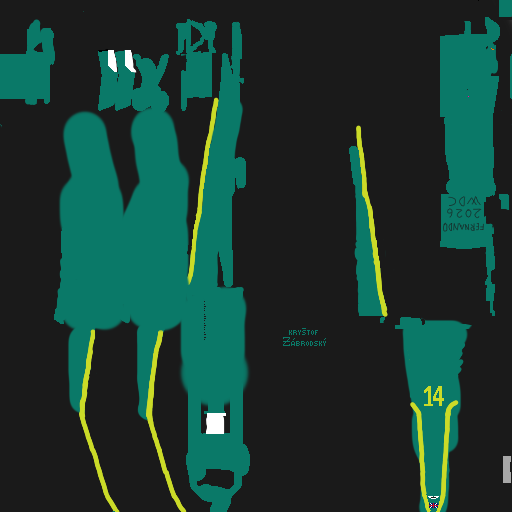
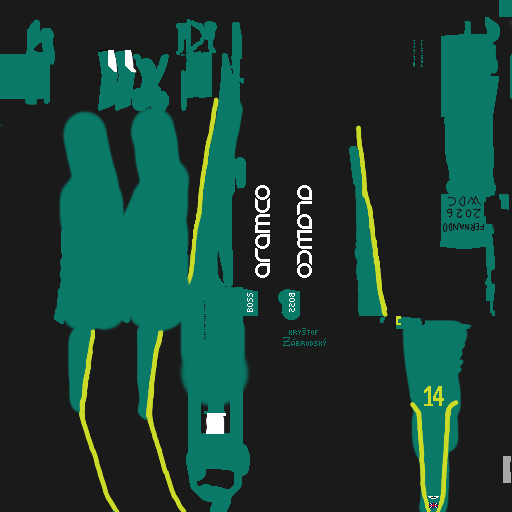
Upraven serzant Chawo, pridany skiny a pridan shell.html

diff --git a/build/shell.html b/build/shell.html
@@ -1,0 +1,291 @@
+<!doctype html>
+<html lang="en">
+    <head>
+        <meta charset="utf-8" />
+        <meta
+            name="viewport"
+            content="width=device-width, user-scalable=no, initial-scale=1.0"
+        />
+        <title>$GODOT_PROJECT_NAME</title>
+        <style>
+            html,
+            body,
+            #canvas {
+                margin: 0;
+                padding: 0;
+                border: 0;
+            }
+            body {
+                color: white;
+                background-color: black;
+                overflow: hidden;
+                touch-action: none;
+            }
+            #canvas {
+                display: block;
+            }
+            #canvas:focus {
+                outline: none;
+            }
+            #status {
+                position: absolute;
+                left: 0;
+                right: 0;
+                top: 0;
+                bottom: 0;
+            }
+            #status {
+                background-color: #505050;
+                display: flex;
+                flex-direction: column;
+                justify-content: center;
+                align-items: center;
+                visibility: hidden;
+            }
+            #status-notice {
+                display: none;
+            }
+            #status-progress {
+                display: none;
+                width: 100%;
+            }
+            #status-notice {
+                background-color: #5b3943;
+                border-radius: 0.5rem;
+                border: 1px solid #9b3943;
+                color: #e0e0e0;
+                font-family: "Noto Sans", "Droid Sans", Arial, sans-serif;
+                line-height: 1.3;
+                margin: 0 2rem;
+                overflow: hidden;
+                padding: 1rem;
+                text-align: center;
+                z-index: 1;
+            }
+            #status-loading {
+                position: absolute;
+                display: flex;
+                flex-direction: column;
+                justify-content: center;
+                align-items: center;
+                bottom: 10%;
+                left: 50%;
+                width: 50%;
+                transform: translateX(-50%);
+            }
+            #status-text {
+                font-family: "Noto Sans", "Droid Sans", Arial, sans-serif;
+                font-size: 1.2rem;
+                font-weight: bold;
+                margin: 0 auto;
+            }
+            #dyk-container {
+                -webkit-user-select: none;
+                -moz-user-select: none;
+                -ms-user-select: none;
+                user-select: none;
+                font-family: "Noto Sans", "Droid Sans", Arial, sans-serif;
+                background-color: #707070;
+                border-radius: 0.5em;
+                border: 1px solid #ddd;
+                padding: 1em;
+                width: 30%;
+                height: 30%;
+                box-shadow: 0 0 30px black;
+                transition: box-shadow 100ms ease;
+                position: relative;
+            }
+            #dyk-next {
+                color: #cccccc;
+                font-size: 1.3rem;
+                font-weight: bold;
+                position: absolute;
+                right: 5px;
+                bottom: 0;
+            }
+        </style>
+        $GODOT_HEAD_INCLUDE
+    </head>
+    <body>
+        <canvas id="canvas">
+            Your browser does not support the canvas tag.
+        </canvas>
+
+        <noscript> Your browser does not support JavaScript. </noscript>
+
+        <div id="status">
+            <div id="status-loading">
+                <span id="status-text">Loading...</span>
+                <progress id="status-progress"></progress>
+            </div>
+            <div id="status-notice"></div>
+            <div
+                id="dyk-container"
+                onpointerdown="this.style.boxShadow = '0 0 10px black';"
+                onpointerup="dyk()"
+            >
+                <span id="dyk"></span>
+                <span id="dyk-next">Další ➤</span>
+            </div>
+        </div>
+
+        <script src="$GODOT_URL"></script>
+        <script>
+            const dyks = [
+                "Věděli jste, že Formule 1 je <b>nejrychlejší silniční závodní série</b> na světě?",
+                "Věděli jste, že první Grand Prix Formule 1 se konala v roce <b>1950 v Silverstone</b> ve Velké Británii?",
+                "Věděli jste, že nejúspěšnějšími jezdci jsou <b>Michael Schumacher a Lewis Hamilton</b>, oba se 7 mistrovskými tituly?",
+                "Věděli jste, že nejrychlejší okruh je <b>Monza v Itálii</b> s průměrnou rychlostí přes 260 km/h?",
+                "Věděli jste, že vozy F1 mohou zrychlit z <b>0 na 100 km/h za méně než 2,5 sekundy</b>?",
+                "Věděli jste, že jezdci mohou při brzdění zažívat přetížení až <b>5G</b>?",
+                "Věděli jste, že vozy mají speciální systémy pro ochranu jezdců, jako je <b>HANS a Halo</b>?",
+                "Věděli jste, že <b>Max Verstappen</b> debutoval v 17 letech a je nejmladším vítězem závodu v historii (18 let a 228 dní)?",
+                "Věděli jste, že vozy mají takový přítlak, že by mohly teoreticky <b>jezdit po stropě tunelu</b>?",
+                "Věděli jste, že piloti průměrně řadí <b>50x za jedno kolo</b>, což je kolem 3 000 změn za závod?",
+                "Věděli jste, že vozy jsou navrženy tak, aby vydržely nárazy o síle až <b>80G</b>?",
+                "Věděli jste, že poslední jezdec, který přišel ve Formuli 1 o život je Jules Bianchi a na jeho počest je navždy <b>zakázáno vybrat si startovní číslo 17</b>?",
+                "Věděli jste, že v kalendáři zůstávají 4 tratě z původní sezóny 1950: <b>Silverstone, Monako, Spa a Monza</b>?",
+                "Věděli jste, že v roce 1955 <b>Alberto Ascari</b> v Monaku vyletěl s vozem až do mořského přístavu?",
+                "Věděli jste, že světový rekord v nejrychlejším pit stopu drží <b>McLaren s časem 1,80 sekundy</b>?",
+                "Věděli jste, že <b>Lewis Hamilton</b> drží rekord pro nejvíce pole position a byl prvním černošským mistrem světa?",
+                "Věděli jste, že vozy Formule 1 používají <b>hybridní motory</b> již od roku 2014?",
+                "Věděli jste, že maximální rychlost vozů F1 může přesáhnout hranici <b>370 km/h</b>?",
+                "Věděli jste, že v sezóně 2026 je v kalendáři naplánováno <b>23 závodů</b> po celém světě?",
+                "Věděli jste, že výhradním dodavatelem pneumatik je <b>Pirelli</b> a ty jsou vyvíjeny speciálně pro každý závod?",
+                "Věděli jste, že <b>hmotnost vozu</b> je striktně kontrolována a musí být splněna i s jezdcem po dojetí závodu?",
+                "Věděli jste, že nejdelší závod v historii F1 trval <b>přes 4 hodiny</b>?",
+                "Věděli jste, že Formule 1 je jednou z <b>nejdražších a technologicky nejpokročilejších</b> sportovních sérií?",
+                "Věděli jste, že <b>Max Verstappen</b> získal svůj první titul v roce 2021 a k roku 2026 má na kontě přes 40 vítězství?",
+                "Věděli jste, že <b>Mercedes</b> naprosto dominoval hybridní éře v letech 2014 až 2020?",
+                "Věděli jste, že během závodu může teplota v kokpitu dosáhnout až <b>50 °C</b>?",
+                "Věděli jste, že jezdec může během jedné Grand Prix vypotit a ztratit až <b>4 kg tělesné váhy</b>?",
+                "Věděli jste, že brzdové kotouče se při intenzivním brzdění zahřívají na teplotu přes <b>1 000 °C</b>?",
+                "Věděli jste, že <b>volant vozu F1</b> stojí více než běžné osobní auto a obsahuje stovky nastavitelných funkcí?",
+                "Věděli jste, že motor F1 má <b>tepelnou účinnost přes 50 %</b>, což je téměř dvojnásobek oproti běžným autům?",
+                "Věděli jste, že přilba jezdce F1 je tak pevná, že by ji <b>neprostřelila ani kulka</b>?",
+                "Věděli jste, že tankování paliva během závodu je <b>zakázáno již od roku 2010</b>?",
+                "Věděli jste, že pneumatika F1 dosahuje své ideální přilnavosti až při teplotě kolem <b>100 °C</b>?",
+                "Věděli jste, že monokok (šasi) je vyroben z <b>uhlíkových vláken</b>, která jsou lehčí než hliník, ale pevnější než ocel?",
+                "Věděli jste, že pro sezónu 2026 vstupuje do F1 jako nový dodavatel motorů německé <b>Audi</b>?",
+            ];
+            let dyk_id = Math.floor(Math.random() * dyks.length);
+            function dyk() {
+                const dykContainer = document.getElementById("dyk-container");
+                const dykElement = document.getElementById("dyk");
+                dykContainer.style.boxShadow = "0 0 30px black";
+                dykElement.innerHTML = dyks[dyk_id];
+                dyk_id = (dyk_id + 1) % dyks.length;
+            }
+            dyk();
+
+            if ("serviceWorker" in navigator) {
+                navigator.serviceWorker.ready.then((registration) => {
+                    if (registration.waiting) {
+                        registration.waiting.postMessage("update");
+                        return;
+                    }
+                    registration.addEventListener("updatefound", () => {
+                        const newWorker = registration.installing;
+                        newWorker.addEventListener("statechange", () => {
+                            if (
+                                newWorker.state === "installed" &&
+                                navigator.serviceWorker.controller
+                            ) {
+                                if (
+                                    confirm(
+                                        "New update ready. Do you want to install it now?",
+                                    )
+                                ) {
+                                    newWorker.postMessage("update");
+                                }
+                            }
+                        });
+                    });
+                });
+            }
+
+            const engine = new Engine($GODOT_CONFIG);
+
+            (function () {
+                const statusOverlay = document.getElementById("status");
+                const statusProgress =
+                    document.getElementById("status-progress");
+                const statusNotice = document.getElementById("status-notice");
+                const statusText = document.getElementById("status-text");
+
+                let initializing = true;
+                let statusMode = "";
+
+                function setStatusMode(mode) {
+                    if (statusMode === mode || !initializing) {
+                        return;
+                    }
+                    if (mode === "hidden") {
+                        statusOverlay.remove();
+                        initializing = false;
+                        return;
+                    }
+                    statusOverlay.style.visibility = "visible";
+                    statusProgress.style.display =
+                        mode === "progress" ? "block" : "none";
+                    statusNotice.style.display =
+                        mode === "notice" ? "block" : "none";
+                    statusMode = mode;
+                }
+
+                function setStatusNotice(text) {
+                    while (statusNotice.lastChild) {
+                        statusNotice.removeChild(statusNotice.lastChild);
+                    }
+                    const lines = text.split("\n");
+                    lines.forEach((line) => {
+                        statusNotice.appendChild(document.createTextNode(line));
+                        statusNotice.appendChild(document.createElement("br"));
+                    });
+                }
+
+                function displayFailureNotice(err) {
+                    console.error(err);
+                    if (err instanceof Error) {
+                        setStatusNotice(err.message);
+                    } else if (typeof err === "string") {
+                        setStatusNotice(err);
+                    } else {
+                        setStatusNotice("An unknown error occurred.");
+                    }
+                    setStatusMode("notice");
+                    initializing = false;
+                }
+
+                setStatusMode("progress");
+                engine
+                    .startGame({
+                        onProgress: function (current, total) {
+                            if (current > 0 && total > 0) {
+                                statusProgress.value = current;
+                                statusProgress.max = total;
+                                statusText.textContent =
+                                    "Loading... " +
+                                    Math.round((100 * current) / total) +
+                                    "%";
+                                if (
+                                    Math.round((100 * current) / total) == 100
+                                ) {
+                                    statusProgress.removeAttribute("value");
+                                    statusProgress.removeAttribute("max");
+                                    statusText.textContent = "Unpacking...";
+                                }
+                            } else {
+                                statusProgress.removeAttribute("value");
+                                statusProgress.removeAttribute("max");
+                                statusText.textContent = "Loading...";
+                            }
+                        },
+                    })
+                    .then(() => {
+                        setStatusMode("hidden");
+                    }, displayFailureNotice);
+            })();
+        </script>
+    </body>
+</html>
